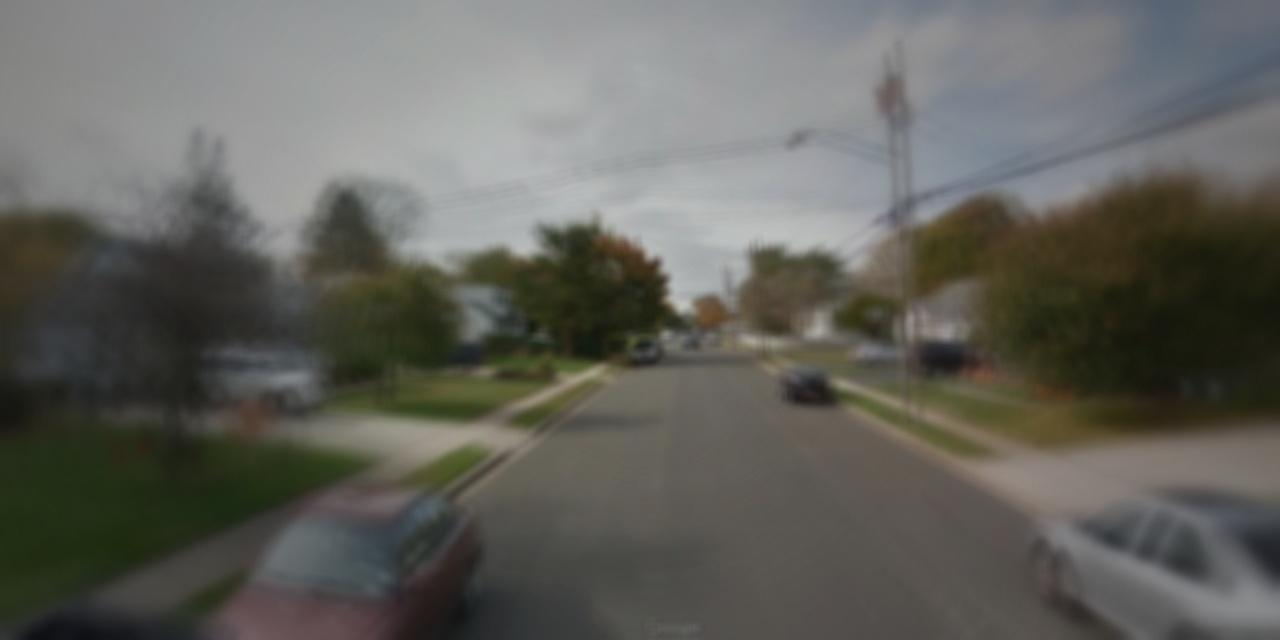
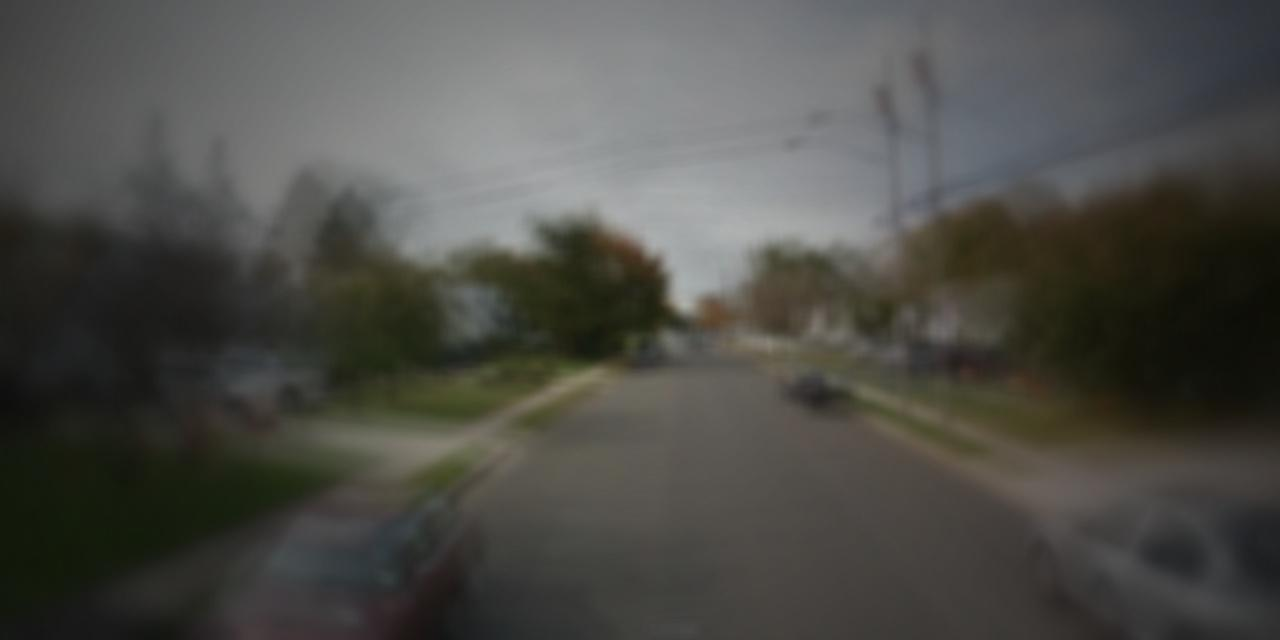
more changes

diff --git a/peter/src/main/java/uk/ac/cam/teamdelta/peter/Test.java b/peter/src/main/java/uk/ac/cam/teamdelta/peter/Test.java
@@ -26,7 +26,7 @@ public class Test {
     Test(){
         // process();
 
-        ImageProcParams p = new ImageProcParams(4, 1.05, 0, 0.4);
+        ImageProcParams p = new ImageProcParams(6, 1.15, 0, 0.7);
 
         ImageProc ip = ImageProc.getImageProc(p);
 
